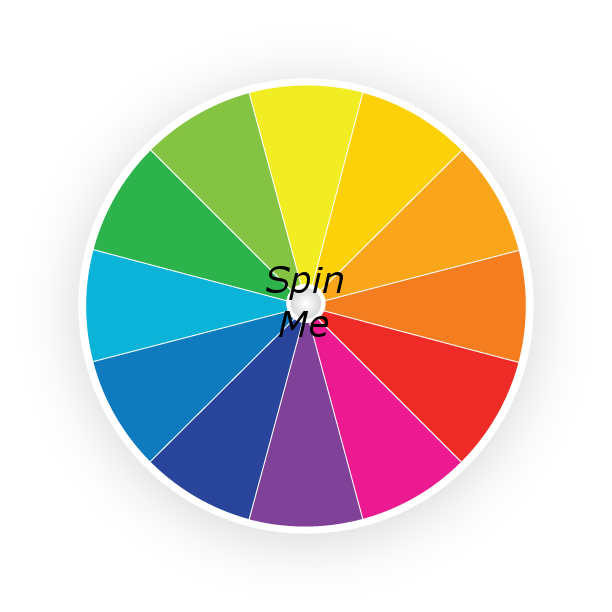
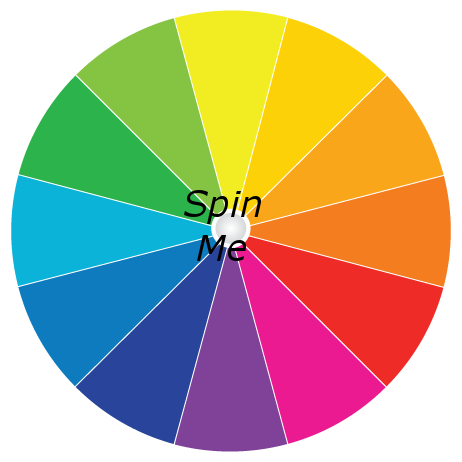
Fix dead space around wheel, and add border-radius CSS to make it round.

diff --git a/style.css b/style.css
@@ -202,19 +202,13 @@ div.wheel-right {
     position: relative;
 }
 
-#spin-button {
-    width: 80%;
-    height: 10%;
-    position: absolute;
-    margin: 5% 10%;
-    border-radius: 100% 100%;
-}
 /*//for wheel*/
 
 #color-wheel{
     display: inline-block;
-    width: 80%;
-    margin-left: 10%;
+    border-radius: 100%;            /* Make this a circular element. */
+    width: 70%;
+    margin-left: 15%;
     height: auto;
     position: absolute;
     -webkit-transition: -webkit-transform 2s ease-out;
